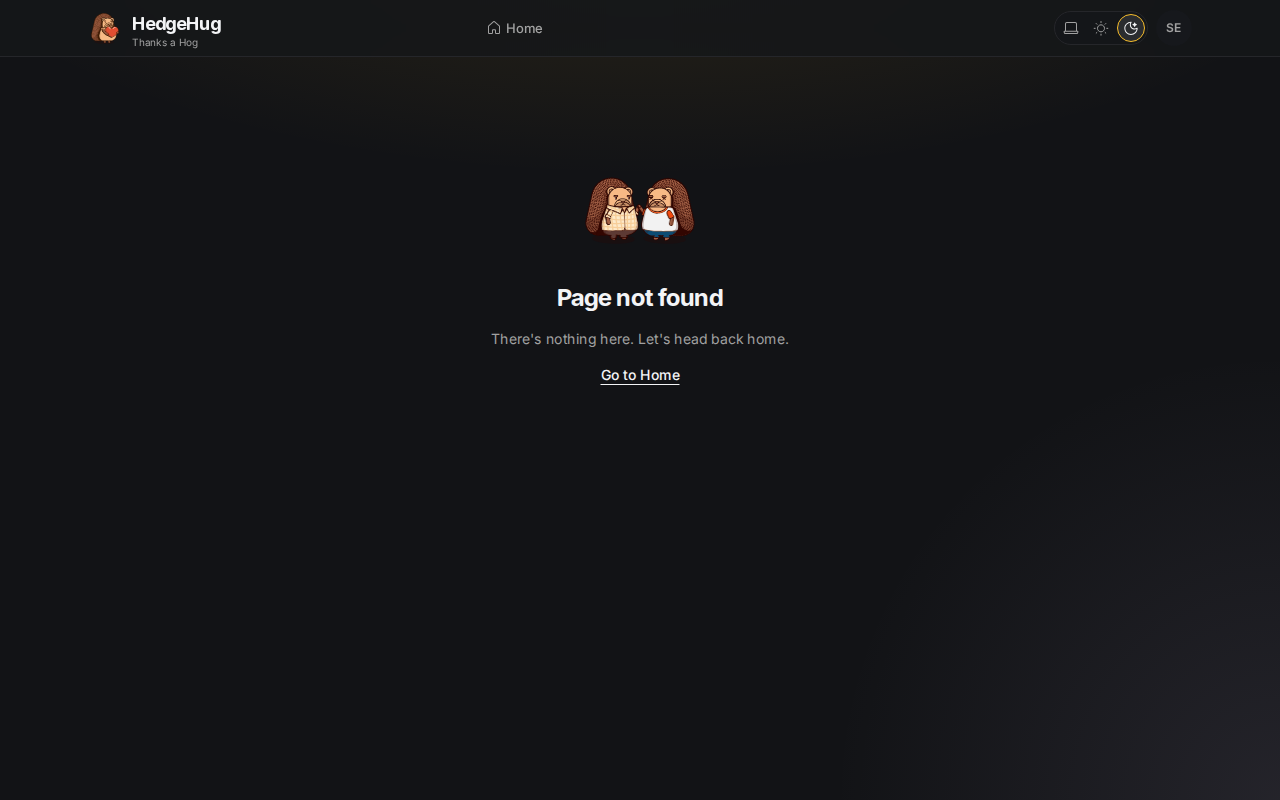
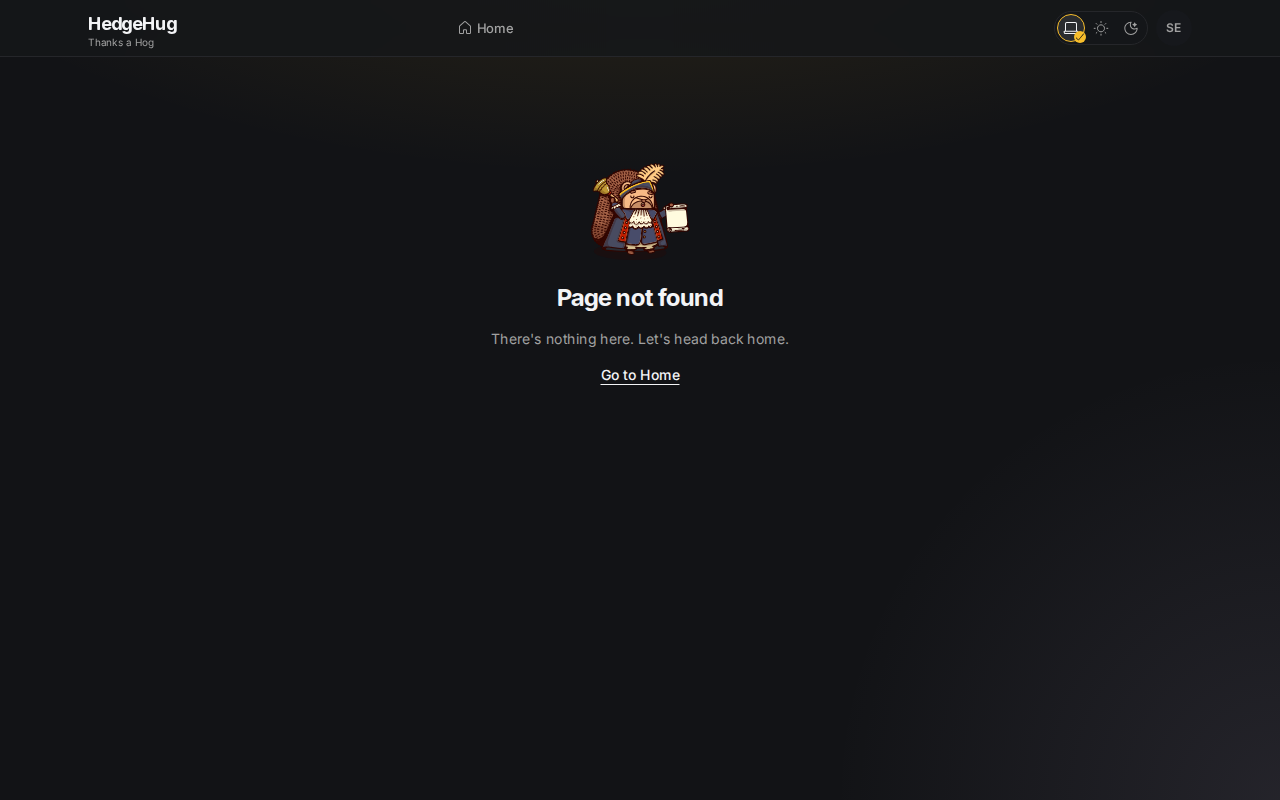
Fix the review's findings on the website shell
The theme survives a browser that refuses storage, and the selected
theme option shows a check beside its primary border (V24). Faces size
by class. The wordmark is text only and one hedgehog, the Town Crier,
stands in for Max (V17, V18). Only built files under /assets/ are
immutable, so the extensionless SPA fallback keeps revalidating (WS26).
Coherence ignores the proof transcripts.

diff --git a/website/src/theme.test.tsx b/website/src/theme.test.tsx
@@ -1,9 +1,13 @@
 import { act, render, screen } from "@testing-library/react";
 import userEvent from "@testing-library/user-event";
-import { describe, expect, it } from "vitest";
+import { afterEach, describe, expect, it, vi } from "vitest";
 import { App } from "./App";
 import { shellFixtures } from "./shell";
 import { fakeSystemTheme } from "./test/systemTheme";
+
+afterEach(() => {
+  vi.restoreAllMocks();
+});
 
 const isDark = () => document.documentElement.classList.contains("dark");
 
@@ -46,5 +50,28 @@ describe("V6: the theme control follows the system first, overrides it per brows
     expect(isDark()).toBe(false);
     act(() => system.turnDark(true));
     expect(isDark()).toBe(true);
+  });
+
+  it("still renders and switches theme when the browser refuses storage", async () => {
+    fakeSystemTheme(true);
+    vi.spyOn(Storage.prototype, "getItem").mockImplementation(() => {
+      throw new DOMException("Storage is disabled", "SecurityError");
+    });
+    vi.spyOn(Storage.prototype, "setItem").mockImplementation(() => {
+      throw new DOMException("Storage is disabled", "SecurityError");
+    });
+    const { user } = renderShell();
+    expect(screen.getByRole("heading", { level: 1, name: "Sign in" })).toBeInTheDocument();
+    expect(isDark()).toBe(true);
+    await user.click(screen.getByRole("button", { name: "Light" }));
+    expect(isDark()).toBe(false);
+  });
+
+  it("marks the selected option with a visible check, not colour alone", async () => {
+    fakeSystemTheme(false);
+    const { user } = renderShell();
+    await user.click(screen.getByRole("button", { name: "Dark" }));
+    expect(screen.getByRole("button", { name: "Dark" }).querySelector("[data-selected-mark]")).not.toBeNull();
+    expect(screen.getByRole("button", { name: "Light" }).querySelector("[data-selected-mark]")).toBeNull();
   });
 });

diff --git a/website/src/ThemeControl.tsx b/website/src/ThemeControl.tsx
@@ -1,5 +1,5 @@
 import type { ComponentType } from "react";
-import { IconDay, IconLaptop, IconNight } from "@posthog/icons";
+import { IconCheck, IconDay, IconLaptop, IconNight } from "@posthog/icons";
 import { useTheme, type ThemeChoice } from "./theme";
 
 const options: { choice: ThemeChoice; label: string; Icon: ComponentType<{ className?: string }> }[] = [
@@ -22,12 +22,21 @@ export function ThemeControl() {
             aria-label={option.label}
             title={option.label}
             onClick={() => choose(option.choice)}
-            className={`flex size-7 items-center justify-center rounded-full border transition-colors ${selected ? "border-primary bg-fill-selected text-foreground" : "border-transparent text-muted-foreground hover:bg-fill-hover hover:text-foreground"}`}
+            className={`relative flex size-7 items-center justify-center rounded-full border transition-colors ${selected ? "border-primary bg-fill-selected text-foreground" : "border-transparent text-muted-foreground hover:bg-fill-hover hover:text-foreground"}`}
           >
             <option.Icon className="size-4" />
+            {selected && <SelectedMark />}
           </button>
         );
       })}
     </div>
+  );
+}
+
+function SelectedMark() {
+  return (
+    <span data-selected-mark aria-hidden="true" className="absolute -bottom-0.5 -right-0.5 flex size-3 items-center justify-center rounded-full bg-primary text-primary-foreground">
+      <IconCheck className="size-2.5" />
+    </span>
   );
 }

diff --git a/website/src/Frame.tsx b/website/src/Frame.tsx
@@ -1,5 +1,4 @@
 import type { ReactNode } from "react";
-import { HedgehogHeart } from "@posthog/brand/hoggies";
 import { IconHome } from "@posthog/icons";
 import { MemberFace } from "./Face";
 import type { SignedInMember } from "./shell";
@@ -14,7 +13,7 @@ export function Frame({ member, atHome, children }: { member?: SignedInMember; a
           {member && <ScreenNav atHome={atHome} />}
           <div className="ml-auto flex items-center gap-2">
             <ThemeControl />
-            {member && <MemberFace member={member} size={36} />}
+            {member && <MemberFace member={member} className="size-9" />}
           </div>
         </div>
       </header>
@@ -25,8 +24,7 @@ export function Frame({ member, atHome, children }: { member?: SignedInMember; a
 
 function Wordmark() {
   return (
-    <a href="/" className="flex items-center gap-2.5 rounded-md">
-      <HedgehogHeart size={34} title="" />
+    <a href="/" className="flex items-center rounded-md">
       <span className="flex flex-col leading-none">
         <span className="hud-display text-lg font-bold">HedgeHug</span>
         <span className="text-[10px] text-muted-foreground">Thanks a Hog</span>

diff --git a/website/src/Face.tsx b/website/src/Face.tsx
@@ -1,13 +1,12 @@
 import type { SignedInMember } from "./shell";
 
-export function MemberFace({ member, size }: { member: SignedInMember; size: number }) {
+export function MemberFace({ member, className }: { member: SignedInMember; className: string }) {
   const { face, name } = member;
-  const box = { width: size, height: size };
   if (face.kind === "slack") {
-    return <img src={face.image} alt={name} style={box} className="shrink-0 rounded-full bg-muted object-cover" />;
+    return <img src={face.image} alt={name} className={`shrink-0 rounded-full bg-muted object-cover ${className}`} />;
   }
   return (
-    <span role="img" aria-label={name} style={box} className="inline-flex shrink-0 items-center justify-center rounded-full bg-muted text-xs font-semibold text-muted-foreground">
+    <span role="img" aria-label={name} className={`inline-flex shrink-0 items-center justify-center rounded-full bg-muted text-xs font-semibold text-muted-foreground ${className}`}>
       {face.initials}
     </span>
   );

diff --git a/convex/website/hosting.ts b/convex/website/hosting.ts
@@ -6,7 +6,7 @@ type HttpHandler = (ctx: GenericActionCtx<GenericDataModel>, request: Request) =
 
 const slackAvatars = "https://avatars.slack-edge.com";
 const companyProfileImages = "https://res.cloudinary.com";
-const builtAssets = "/assets/";
+const builtAsset = /^\/assets\/[^/]+\.[A-Za-z0-9]+$/;
 const immutable = "public, max-age=31536000, immutable";
 
 export function registerWebsite(http: HttpRouter) {
@@ -35,7 +35,7 @@ function handlerOf(action: PublicHttpAction): HttpHandler {
 
 function isBuiltAsset(request: Request, response: Response) {
   const served = response.status === 200 || response.status === 304;
-  return served && new URL(request.url).pathname.startsWith(builtAssets);
+  return served && builtAsset.test(new URL(request.url).pathname);
 }
 
 function isHtml(response: Response) {

diff --git a/website/src/theme.ts b/website/src/theme.ts
@@ -6,13 +6,25 @@ const storageKey = "hedgehug.theme";
 const darkSystemQuery = "(prefers-color-scheme: dark)";
 
 function storedChoice(): ThemeChoice {
-  const stored = localStorage.getItem(storageKey);
+  const stored = readStorage();
   return stored === "light" || stored === "dark" ? stored : "system";
 }
 
+function readStorage() {
+  try {
+    return localStorage.getItem(storageKey);
+  } catch {
+    return null;
+  }
+}
+
 function rememberChoice(choice: ThemeChoice) {
-  if (choice === "system") localStorage.removeItem(storageKey);
-  else localStorage.setItem(storageKey, choice);
+  try {
+    if (choice === "system") localStorage.removeItem(storageKey);
+    else localStorage.setItem(storageKey, choice);
+  } catch {
+    return;
+  }
 }
 
 function systemIsDark() {

diff --git a/website/src/Max.tsx b/website/src/Max.tsx
@@ -1,11 +1,11 @@
 import type { ReactNode } from "react";
-import { HedgehogHandClasp } from "@posthog/brand/hoggies";
+import { HedgehogTownCrier } from "@posthog/brand/hoggies";
 import { PageTitle } from "./PageTitle";
 
 export function MaxSays({ title, tab, children, action }: { title: string; tab: string; children: ReactNode; action?: ReactNode }) {
   return (
     <section className="mx-auto flex max-w-md flex-col items-center gap-4 py-16 text-center">
-      <HedgehogHandClasp size={112} title="" />
+      <HedgehogTownCrier size={112} title="" />
       <PageTitle tab={tab}>{title}</PageTitle>
       <p className="text-sm text-muted-foreground">{children}</p>
       {action}
